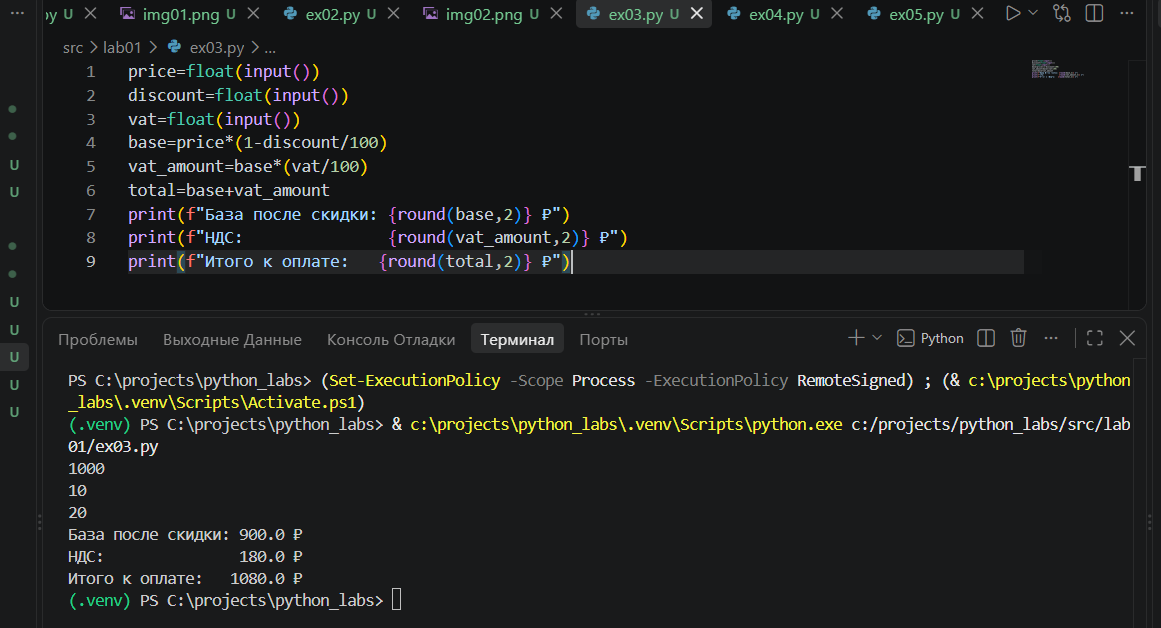
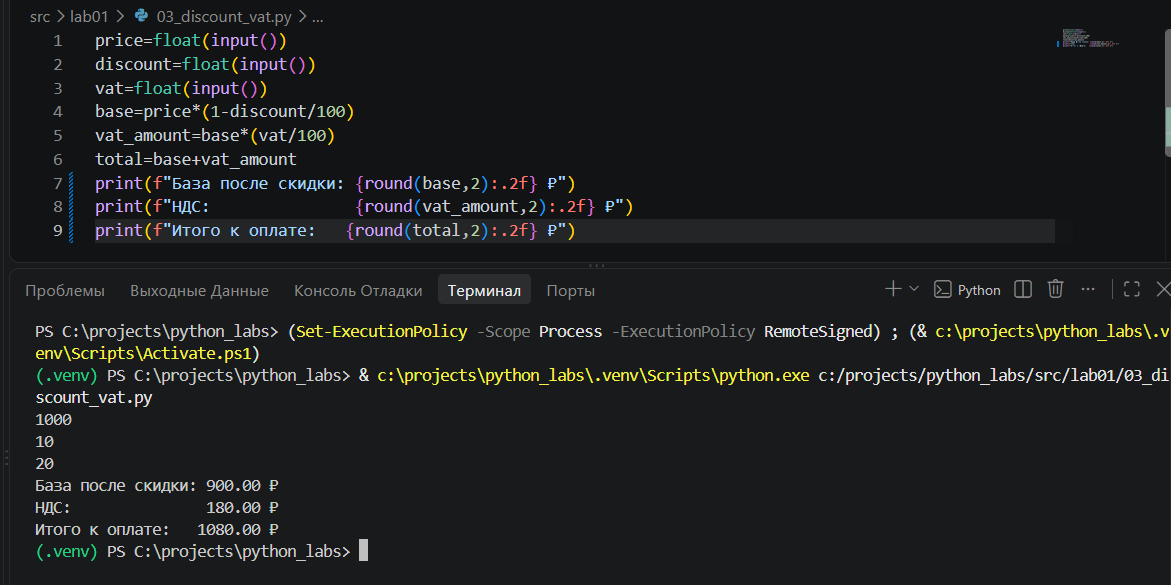
lab2

diff --git a/src/lab02/matrix.py b/src/lab02/matrix.py
@@ -1,0 +1,46 @@
+def transpose(mat: list[list[float | int]]) -> list[list]:
+    if mat == []:
+        return []
+    stroka = len(mat[0])
+    for i in mat:
+        if len(i) != stroka: 
+            raise ValueError("рваная матрица")
+    stolb = len(mat)
+    answer = [[0 for i in range(stolb)] for j in range(stroka)]
+    for i in range(stolb):
+        for j in range(stroka):
+            answer[j][i] = mat[i][j]
+    return answer
+"""
+print(transpose([[1, 2, 3]]))
+print(transpose([[1], [2], [3]]))
+print(transpose([[1, 2], [3, 4]]))
+print(transpose([]))
+print(transpose([[1, 2], [3]]))
+"""
+def row_sums(mat: list[list[float | int]]) -> list[float]:  
+    for i in mat:
+        if len(i) != len(mat[0]): 
+            raise ValueError("рваная")
+    answer = []
+    for i in mat:
+        answer.append(sum(i))
+    return answer
+"""
+print(row_sums([[1, 2, 3], [4, 5, 6]]))
+print(row_sums([[-1, 1], [10, -10]]))
+print(row_sums([[0, 0], [0, 0]]))
+print(row_sums([[1, 2], [3]]))
+"""
+def col_sums(mat: list[list[float | int]]) -> list[float]:
+    for i in mat:
+        if len(i) != len(mat[0]): 
+            raise ValueError("рваная")
+    mat = transpose(mat)
+    return row_sums(mat)
+"""
+print(col_sums([[1, 2, 3], [4, 5, 6]]))
+print(col_sums([[-1, 1], [10, -10]]))
+print(col_sums([[0, 0], [0, 0]]))
+print(col_sums([[1, 2], [3]]))
+"""

diff --git a/src/lab02/tuples.py b/src/lab02/tuples.py
@@ -1,0 +1,25 @@
+def format_record(rec: tuple[str, str, float]) -> str:
+    if len(rec) != 3:
+        raise ValueError("Введите ФИО, группу, GPA")
+    fio = rec[0].split()
+    group = rec[1]
+    gpa = rec[2]
+    answer = ""
+    if len(fio) == 2:
+        answer = f"{fio[0][0].upper()}{fio[0][1:].lower()} {fio[1][0].upper()}."
+    elif len(fio) == 3:
+        answer = f"{fio[0][0].upper()}{fio[0][1:].lower()} {fio[1][0].upper()}.{fio[2][0].upper()}."
+    else:
+        raise ValueError("Введите корректное ФИО")
+    if len(rec[1]) == 0:
+        raise ValueError("Введите корректную группу")
+    if (type(gpa) == float):
+        answer = str(f"{answer}, гр. {group}, GPA {round(gpa,2):.2f}")
+    else:
+        raise TypeError("Введите корректное GPA")
+    return answer
+
+print(format_record(("Иванов Иван Иванович", "BIVT-25", 4.6)))
+print(format_record(("Петров Пётр", "IKBO-12", 5.0)))
+print(format_record(("Петров Пётр Петрович", "IKBO-12", 5.0)))
+print(format_record(("  сидорова  анна   сергеевна ", "ABB-01", 3.999)))

diff --git a/src/lab02/arrays.py b/src/lab02/arrays.py
@@ -1,0 +1,40 @@
+def min_max(nums: list[float | int]) -> tuple[float | int, float | int]:
+    if len(nums) == 0:
+        raise ValueError("список пуст")
+    lo = nums[0]
+    mx = nums[0]
+    for i in nums:
+        if i < lo:
+            lo = i
+        elif i > mx:
+            mx = i
+    return (lo, mx)
+"""
+print(min_max([3, -1, 5, 5, 0]))
+print(min_max([42]))
+print(min_max([-5, -2, -9]))
+print(min_max([1.5, 2, 2.0, -3.1]))
+print(min_max([]))
+"""
+def unique_sorted(nums: list[float | int]) -> list[float | int]:
+    nums = sorted(set(nums))
+    return nums
+"""
+print(unique_sorted([3, 1, 2, 1, 3]))
+print(unique_sorted([]))
+print(unique_sorted([-1, -1, 0, 2, 2]))
+print(unique_sorted([1.0, 1, 2.5, 2.5, 0]))
+"""
+def flatten(mat: list[list | tuple]) -> list:
+    answer = []
+    for i in mat:
+        if (type(i) == list) or (type(i) == tuple):
+            answer += i
+        else: 
+            raise TypeError ("строка не строка строк матрицы")
+    return answer
+
+print(flatten([[1, 2], [3, 4]]))
+print(flatten([[1, 2], (3, 4, 5)]))
+print(flatten([[1], [], [2, 3]]))
+print(flatten([[1, 2], "ab"]))

diff --git a/src/lab01/03_discount_vat.py b/src/lab01/03_discount_vat.py
@@ -4,6 +4,6 @@ vat=float(input())
 base=price*(1-discount/100)
 vat_amount=base*(vat/100)
 total=base+vat_amount
-print(f"База после скидки: {round(base,2)} ₽")
-print(f"НДС:               {round(vat_amount,2)} ₽")
-print(f"Итого к оплате:   {round(total,2)} ₽")
+print(f"База после скидки: {round(base,2):.2f} ₽")
+print(f"НДС:               {round(vat_amount,2):.2f} ₽")
+print(f"Итого к оплате:   {round(total,2):.2f} ₽")
